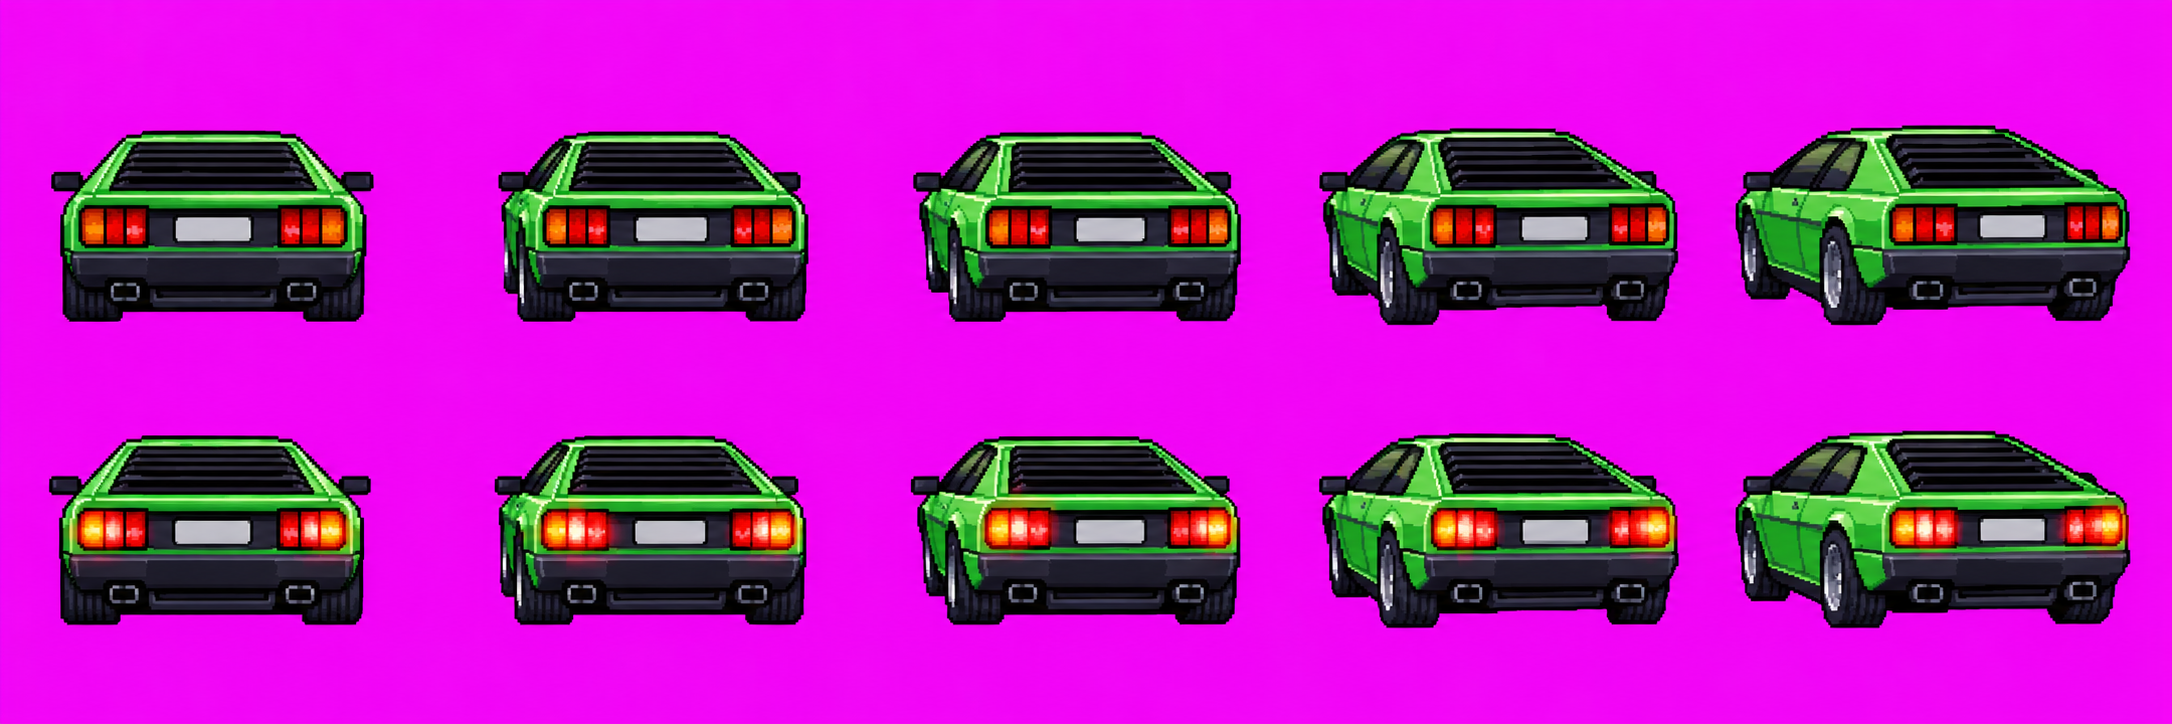
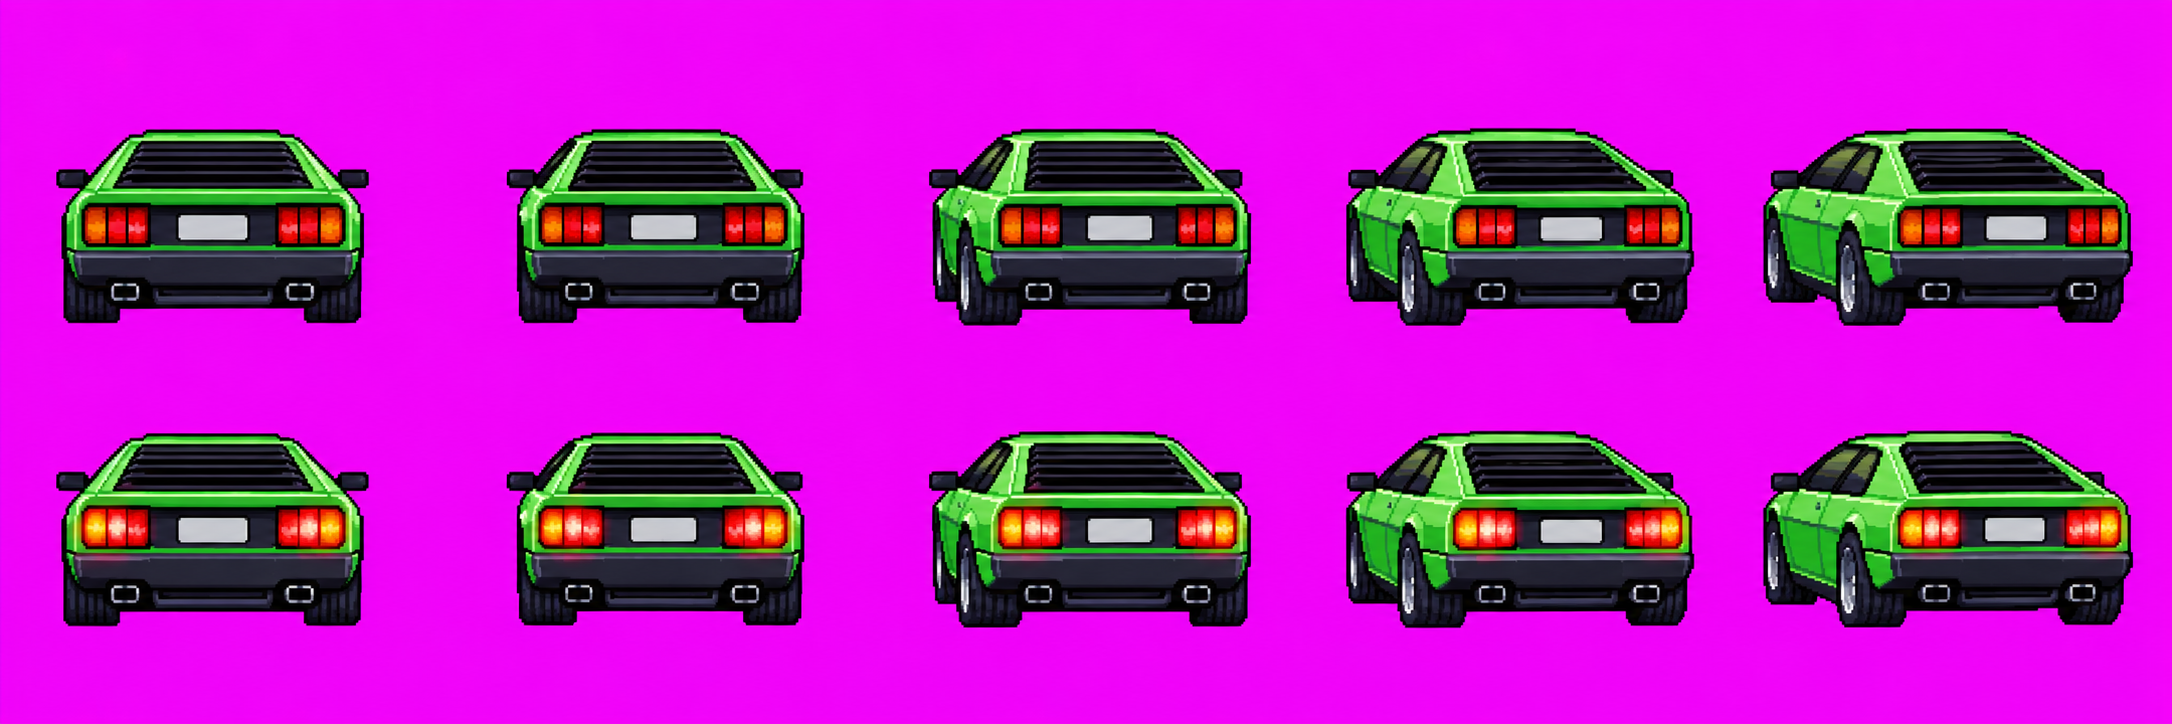
Wedge Turbo: the cars' master with gentler turns
The new master turns less at first and keeps its height; its views are
picked again by how far each is turned.

diff --git a/wedge-turbo/tools/mkcars.py b/wedge-turbo/tools/mkcars.py
@@ -39,9 +39,9 @@ ART = os.path.join(os.path.dirname(os.path.abspath(__file__)), '..', 'art', 'car
 # counted), and whether the drawing is turned the other way (then
 # mirrored). Picked by how far each is turned, measured against the game's
 # turns (the rear face's shift, local/car-spec): the drawings turn faster
-# than the game's angles, so the straight one serves angles 3 and 4 and
+# than the game's angles, so the least turned serves angles 2 and 3 and
 # the most turned one is not used
-VIEWS = ((3, False), (2, False), (1, False), (0, False), (0, False))
+VIEWS = ((3, False), (2, False), (1, False), (1, False), (0, False))
 
 
 def rgb12(c):
